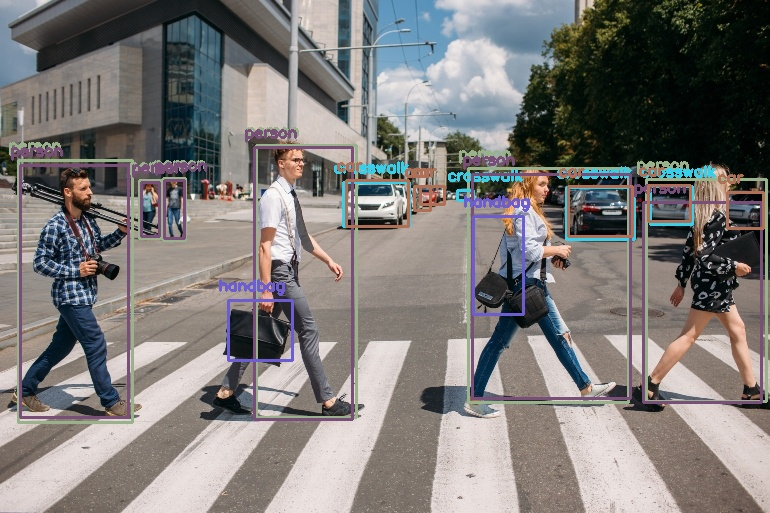
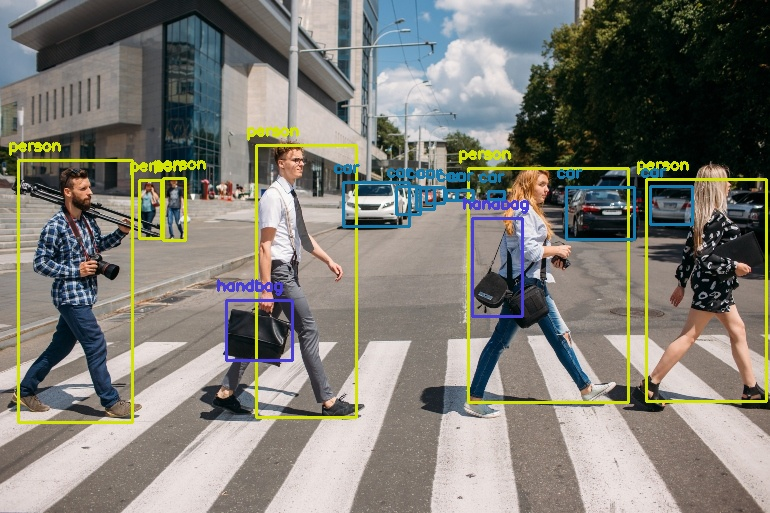
add yolo obj det

Changed region(s): [[0.2805, 0.2495, 1.0, 0.8421], [0.0, 0.2495, 0.2805, 0.8421], [0.374, 0.5926, 0.4052, 0.6862]]

diff --git a/obj_dec.py b/obj_dec.py
@@ -1,0 +1,125 @@
+import cv2
+import argparse
+import numpy as np
+
+import argparse
+
+parser = argparse.ArgumentParser()
+parser.add_argument('--img', default="./imgs/1.jpg", type=str, help='path to <image>.jpg')
+parser.add_argument('--classes', default="./classes.txt", type=str, help='path to <classes>.txt containing all the classes')
+parser.add_argument('--yolo_config', default="yolov3.cfg", type=str, help='path to yolo config file eg. yolov3.cfg')
+parser.add_argument('--yolo_weights', default="yolov3.weights", type=str, help='path to yolo weights file eg. yolov3.weights')
+
+
+def get_output_layers(net):
+    layer_names = net.getLayerNames()
+    try:
+        output_layers = [layer_names[i - 1] for i in net.getUnconnectedOutLayers()]
+    except:
+        output_layers = [layer_names[i[0] - 1] for i in net.getUnconnectedOutLayers()]
+
+    return output_layers
+
+def draw_prediction(img, class_id, confidence, x, y, x_plus_w, y_plus_h):
+    # print('class_id: ',class_id)
+    label = str(classes[class_id])
+    conf = str(round(confidence, ndigits=3))
+    # print(conf)
+    color = COLORS[class_id]
+    cv2.rectangle(img, (x,y), (x_plus_w,y_plus_h), color, 2)
+    cv2.putText(img, conf, (x-10,y-5), cv2.FONT_HERSHEY_SIMPLEX, 0.5, color, 2)
+    cv2.putText(img, label, (x-10,y-20), cv2.FONT_HERSHEY_SIMPLEX, 0.5, color, 2)
+
+def crop_class(img, box):
+    x, y, w, h = box
+    x, y, w, h = int(x), int(y), int(w), int(h) 
+    crop_img = img[y:y+h, x:x+w]
+    cv2.imshow("cropped", crop_img)
+    return crop_img
+
+def crop_class_person(img, boxes, labels):
+    for i, (box, lab) in enumerate(zip(boxes, labels)):
+        if lab == 'person':
+            print(i)
+            # crop_class(img=img, box=box)
+
+if __name__ == '__main__':
+    args = parser.parse_args()  # get arguments from command line
+    
+    img_path = args.img
+    image = cv2.imread(img_path)
+    Width = image.shape[1]
+    Height = image.shape[0]
+    
+    with open(args.classes, 'r') as f:
+        classes = [clas.strip() for clas in f.readlines()]
+
+
+    # generate different colors for different classes 
+    COLORS = np.random.uniform(0, 255, size=(len(classes), 3))
+    
+    # Load YOLO
+    net = cv2.dnn.readNet(args.yolo_config, args.yolo_weights)
+    
+    # create input blob 
+    scale = 0.00392
+    blob = cv2.dnn.blobFromImage(image, scale, (416,416), (0,0,0), True, crop=False)
+
+    # set input blob for the network
+    net.setInput(blob)
+    
+    outs = net.forward(get_output_layers(net))
+    
+    class_ids = []
+    confidences = []
+    boxes = []
+    conf_threshold = 0.5
+    nms_threshold = 0.4
+
+    # for each detetion from each output layer 
+    # get the confidence, class id, bounding box params
+    # and ignore weak detections (confidence < 0.5)
+    for out in outs:
+        for detection in out:
+            scores = detection[5:]
+            class_id = np.argmax(scores)
+            confidence = scores[class_id]
+            
+            if confidence > 0.5:
+                center_x = int(detection[0] * Width)
+                center_y = int(detection[1] * Height)
+                w = int(detection[2] * Width)
+                h = int(detection[3] * Height)
+                x = center_x - w / 2
+                y = center_y - h / 2
+                class_ids.append(class_id)
+                confidences.append(float(confidence))
+                boxes.append([x, y, w, h])
+
+
+    indices = cv2.dnn.NMSBoxes(boxes, confidences, conf_threshold, nms_threshold)
+
+    for i in indices:
+        try:
+            # print(1)
+            box = boxes[i]
+            class_id = class_ids[i]
+        except:
+            # print(2)
+            i = i[0]
+            box = boxes[i]
+            class_id = class_ids[i]
+        
+        x = box[0]
+        y = box[1]
+        w = box[2]
+        h = box[3]
+        # draw_prediction(image, class_id, confidences[i], round(x), round(y), round(x+w), round(y+h))
+
+    # cv2.imshow("object detection", image)
+    crop_class_person(image, boxes, class_ids)
+    cv2.imshow("object detection", crop_class_person(image, boxes, class_ids))
+    cv2.waitKey()
+        
+    # cv2.imwrite("object-detection.jpg", image)
+    cv2.destroyAllWindows()

diff --git a/1.py b/1.py
@@ -1,0 +1,12 @@
+import argparse
+
+# Define default values
+parser = argparse.ArgumentParser()
+parser.add_argument('--foo', default=1, type=float, help='foo')
+parser.add_argument('--bar', default=1, type=float, help='bar')
+
+# Get the args container with default values
+if __name__ == '__main__':
+    args = parser.parse_args()  # get arguments from command line
+
+    print(args.foo, args.bar)

diff --git a/README.md b/README.md
@@ -6,5 +6,6 @@ Developing tool for detecting and counting unique people/characters in a movie c
 
 YOLO installation: [yolo doc](https://opencv-tutorial.readthedocs.io/en/latest/yolo/yolo.html)
 
+`pip install numpy opencv-python`
 1. download yolov3.cfg form [download link](https://opencv-tutorial.readthedocs.io/en/latest/_downloads/10e685aad953495a95c17bfecd1649e5/yolov3.cfg)
 1. download model weights from [download link](https://pjreddie.com/media/files/yolov3.weights)
